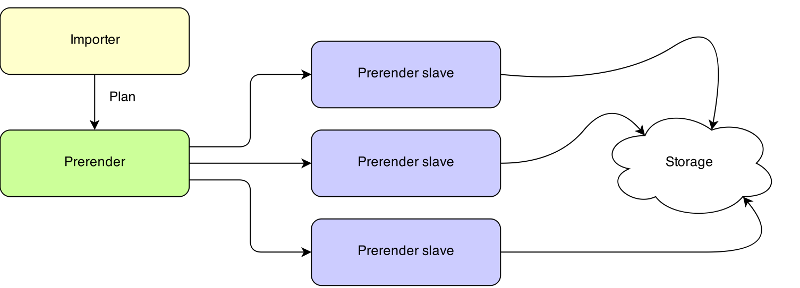
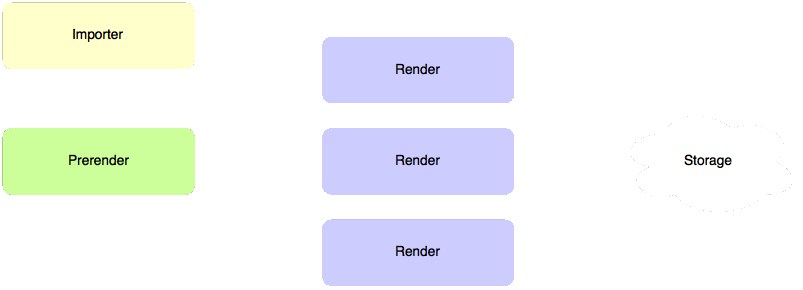
Gopnik docs updated

diff --git a/gopnik/configuration.md b/gopnik/configuration.md
@@ -36,9 +36,6 @@ One config can be used for all daemons and utilities, or separate configs can be
 	"Prerender": {
 		"..."
 	},
-	"PrerenderSlave": {
-		"..."
-	},
 
 	"#Common configuration": null,
 	"MetaSize": 8,
@@ -87,34 +84,24 @@ Dispatcher parameters:
  ---------------- | ---------------- | ------------- | ---------------------------------------------------------------
  Addr             | string           | ":8090"       | Main address
  DebugAddr        | string           | ":9090"       | Address for monitoring
- HTTPReadTimeout  | string           | "60s"         | HTTP client read timeout
- HTTPWriteTimeout | string           | "60s"         | HTTP client write timeout
  Threads          | int              | 1             | set GOMAXPROCS to Threads. -1 for NumCPU
  HotCacheDelay    | string           | "0s"          | Time period after cache set is done and before hot cache drop
  Logging          | json.RawMessage  | nil           | see logging section below
+ PerfLog          | string           | ""            | Performance log file
 
 
 ## Prerender
 
- Name      | Type             | Default value | Description
- --------- | ---------------- | ------------- | ----------------------------------
- DebugAddr | string           | ":8097"       | Address for monitoring
- UIAddr    | string           | ":8088"       | WebUI address
- Threads   | int              | 1             | set GOMAXPROCS to Threads. -1 for NumCPU
- Logging   | json.RawMessage  | nil           | see logging section below
- PerfLog   | string           | ""            | Performance log file
- Slaves    | app.PluginConfig | nil           | Cluster of slaves
-
-## PrerenderSlave
-
- Name          | Type             | Default value | Description
- ------------- | ---------------- | ------------- | ----------------------------------
- RPCAddr       | string           | ":8095"       | RPC address
- DebugAddr     | string           | ":8096"       | Address for monitoring
- SaverPoolSize | int              | _NumCPU_      | Size of savers pool
- Threads       | int              | 1             | set GOMAXPROCS to Threads. -1 means NumCPU
- Logging       | json.RawMessage  | nil           | see logging section below
- PerfLog       | string           | ""            | Performance log file
+ Name           | Type             | Default value | Description
+ -------------- | ---------------- | ------------- | ----------------------------------
+ DebugAddr      | string           | ":8097"       | Address for monitoring
+ UIAddr         | string           | ":8088"       | WebUI address
+ Threads        | int              | 1             | set GOMAXPROCS to Threads. -1 for NumCPU
+ Logging        | json.RawMessage  | nil           | see logging section below
+ PerfLog        | string           | ""            | Performance log file
+ Slaves         | app.PluginConfig | nil           | Cluster of slaves
+ RequestTimeout | string           | "1h"          | Timeout for request to gopnik
+ NodeQueueSize  | int              | 100           | Number of parallel requests per node
 
 ## Plugins
 
@@ -141,15 +128,17 @@ RenderPools section is a list of different renders configuration.
 Gopnik will use first relevant render from top.
 Each render pool is discribed by the following parameters:
 
- Name      | Type     | Default value  | Description
- --------  | -------- | -------------- | --------------------------------------------------------
- Cmd       | []string | nil            | Slave render command line. See details below
- MinZoom   | uint     | 0              | Minimum allowed zoom
- MaxZoom   | uint     | 0              | Maximum allowed zoom
- Tags      | []string | nil            | Render to be used only when request have _all_ tags from list
- PoolSize  | uint     | 0              | Number of render instances
- QueueSize | uint     | 0              | Size of task queue
- RenderTTL | uint     | 0              | Restart render after RenderTTL completed tasks
+ Name             | Type     | Default value  | Description
+ ---------------  | -------- | -------------- | --------------------------------------------------------
+ Cmd              | []string | nil            | Slave render command line. See details below
+ MinZoom          | uint     | 0              | Minimum allowed zoom
+ MaxZoom          | uint     | 0              | Maximum allowed zoom
+ Tags             | []string | nil            | Render to be used only when request have _all_ tags from list
+ PoolSize         | uint     | 0              | Number of render instances
+ HPQueueSize      | uint     | 0              | Size of high priority task queue
+ LPQueueSize      | uint     | 0              | Size of task low priority queue
+ RenderTTL        | uint     | 0              | Restart render after RenderTTL completed tasks
+ ExecutionTimeout | string   | ""             | Timeout for one request
 
 ## Slave options
 
@@ -163,6 +152,7 @@ Command line options for default render slave:
  -fontsPath   | []string  | nil            | List of font paths
  -pluginsPath | string    | nil            | Mapnik plugins path
  -scaleFactor | float64   | 1.0            | Scale factor. Commonly equals _(slave tile size) / (gopnik's tile size)_
+ -imageFormat | string    | "png8"         | Mapnik image format (e.g. "png8" or "png24")
 
 ## Logging
 

diff --git a/gopnik/utils.md b/gopnik/utils.md
@@ -35,14 +35,16 @@ Accepts a plan (see _gopnikprerenderimport_) and a config in the following forma
 
 Config parameters:
 
- Name        | Type             | Default value | Description
- ----------- | ---------------- | ------------- | ----------------------------------------------------------------------
- UIAddr      | string           | ":8088"       | WebUI address
- DebugAddr   | string           | ":8097"       | Address for monitoring
- Threads     | int              | 1             | set GOMAXPROCS to Threads. -1 means NumCPU
- Logging     | json.RawMessage  | nil           | Logging options. See [configuration](configuration.html) for details
- PerfLog     | string           | ""            | Performance log file
- Slaves      | app.PluginConfig | nil           | Cluster of slaves
+ Name           | Type             | Default value | Description
+ -------------- | ---------------- | ------------- | ----------------------------------
+ DebugAddr      | string           | ":8097"       | Address for monitoring
+ UIAddr         | string           | ":8088"       | WebUI address
+ Threads        | int              | 1             | set GOMAXPROCS to Threads. -1 for NumCPU
+ Logging        | json.RawMessage  | nil           | Logging options. See [configuration](configuration.html) for details
+ PerfLog        | string           | ""            | Performance log file
+ Slaves         | app.PluginConfig | nil           | Cluster of slaves
+ RequestTimeout | string           | "1h"          | Timeout for request to gopnik
+ NodeQueueSize  | int              | 100           | Number of parallel requests per node
 
 ## gopnikcopy
 

diff --git a/gopnik/installation.md b/gopnik/installation.md
@@ -22,9 +22,15 @@ title: Gopnik installation
  * [github.com/stretchr/testify](https://github.com/stretchr/testify)
  * [github.com/jteeuwen/go-bindata](https://github.com/jteeuwen/go-bindata)
  * [github.com/golang/protobuf/{proto,protoc-gen-go}](https://github.com/golang/protobuf)
- * [code.google.com/p/freetype-go/freetype](https://code.google.com/p/freetype-go/)
+ * [github.com/orofarne/freetype-go/freetype](github.com/orofarne/freetype-go/freetype)
+ * [git.apache.org/thrift.git/lib/go/thrift](https://thrift.apache.org/)
 
-The easiest way to get it is to setup [GOPATH](https://golang.org/doc/code.html#GOPATH) and use [go get](https://golang.org/cmd/go/#hdr-Download_and_install_packages_and_dependencies) utility.
+The easiest way to get it is to use [gom](https://github.com/mattn/gom).
+
+```bash
+go get github.com/mattn/gom
+gom install
+```
 
 ## C++ tools and libraries
  * [cmake](http://www.cmake.org/)
@@ -34,8 +40,8 @@ The easiest way to get it is to setup [GOPATH](https://golang.org/doc/code.html#
 
 ## Build
 ```bash
-./bootstrap.bash
-./build.bash
+gom exec ./bootstrap.bash
+gom exec ./build.bash
 ```
 
 ## External plugins

diff --git a/gopnik/index.md b/gopnik/index.md
@@ -17,7 +17,7 @@ Code is unstable. Current status of Gopnik is something like developer preview. 
  * tags on request, tag filtering
  * support for multiple different styles and rendering options for different zooms and tags
  * distributed render balancer
- * storage and discovery plugins
+ * pluggable storage modules
  * full support of eventually consistent storages
  * some nice utils
 
